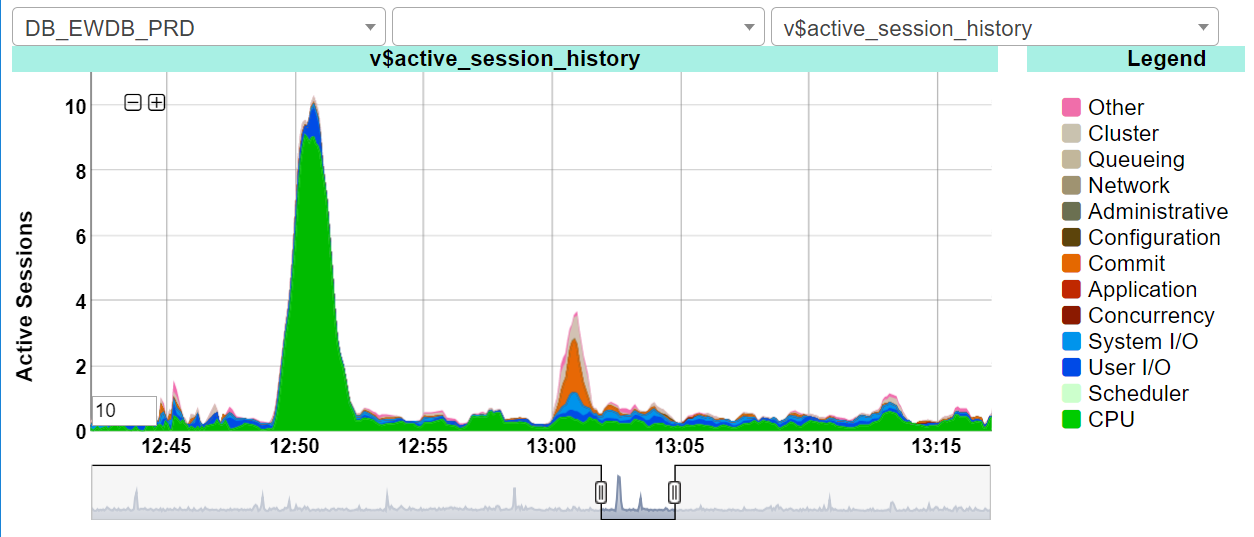
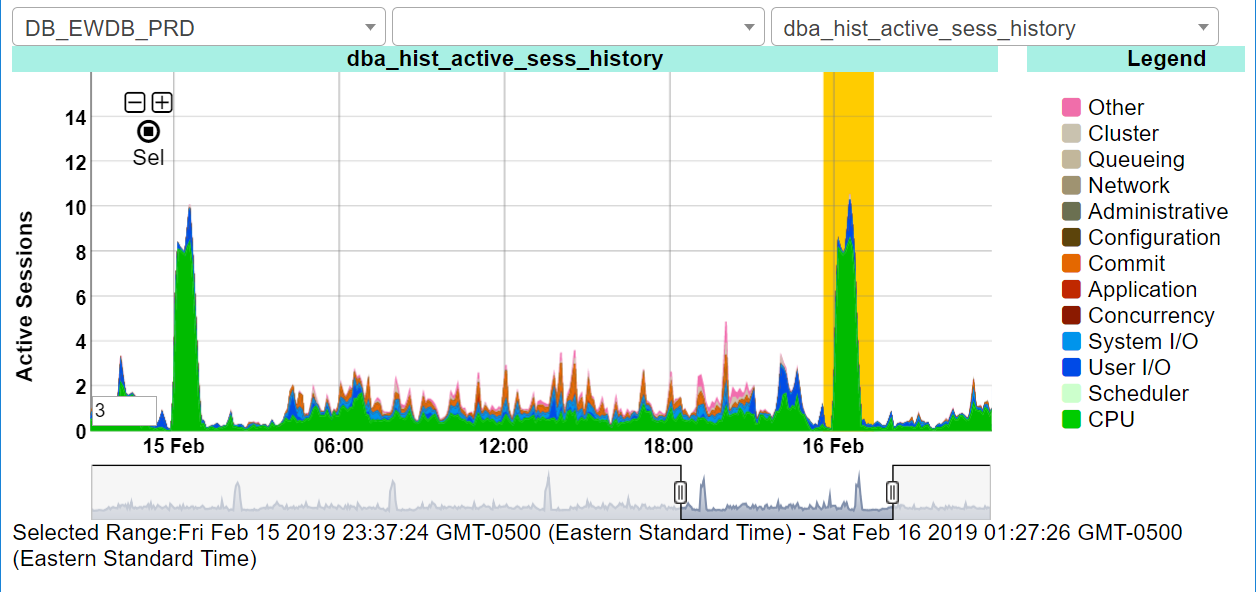
added interactive date range selection

diff --git a/top_activity_viewer/static/graph.js b/top_activity_viewer/static/graph.js
@@ -22,18 +22,79 @@ export function emptyGraph() {
 	gl.maxDownloadedDate=startTime.getTime()+30*24*60*60*1000;
 	gl.minDownloadedDate=gl.maxDownloadedDate;
 	
+	// define interaction model object
+	var interactionModel= {
+		'mousedown': function (event, g, context){
+				context.initializeMouseDown(event, g, context);
+				// clear any highlights
+				g.updateOptions({ underlayCallback: null });
+				// clear "selected range ..." wording
+				$("#selected_range").hide();
+				
+				if (gl.panSelectToggle=='select') {
+					Dygraph.startZoom(event, g, context);
+				}
+				else if (gl.panSelectToggle=='pan'){
+					Dygraph.startPan(event, g, context);
+				}
+				// save current range for later
+				gl.mouseDownDateWindow=gl.dg.xAxisRange();
+		},
+			
+		'mousemove': function (event, g, context){
+			if (gl.panSelectToggle=='select' && context.isZooming) {
+				Dygraph.moveZoom(event, g, context);
+			}
+			else if (gl.panSelectToggle=='pan' && context.isPanning){
+				context.is2DPan = false; // pan only along X axis
+				Dygraph.movePan(event, g, context);
+		}},
+			
+		'mouseup'  : function (event, g, context){
+			if (gl.panSelectToggle=='select' && context.isZooming ){
+				Dygraph.endZoom(event, g, context);
+				// only consider it a selection if mouseup is not too close to mousedown
+				if ((g.xAxisRange()[0]-gl.mouseDownDateWindow[0]) /
+				    (g.xAxisRange()[1]-g.xAxisRange()[0]) > 0.05 ) {
+						// effectively cancel zooming by redrawing with intial mousedown date range
+						// and highlight zoomed area
+						gl.selectedDateWindow=g.xAxisRange();
+						gl.dg.updateOptions({
+							dateWindow: gl.mouseDownDateWindow
+							,underlayCallback: function(canvas, area, g) {
+								var bottom_left = g.toDomCoords(gl.selectedDateWindow[0], -20);
+								var top_right = g.toDomCoords(gl.selectedDateWindow[1], +20);
+								var left = bottom_left[0];
+								var right = top_right[0];
+								canvas.fillStyle = "rgba(255, 204, 0, 1.0)";
+								canvas.fillRect(left, area.y, right - left, area.h);
+							}
+						});
+						// print selected date range under the chart
+						$("#selected_range").text("Selected Range:"+
+												   new Date(gl.selectedDateWindow[0]).toString()+
+												   " - "+
+												   new Date(gl.selectedDateWindow[1]).toString())
+						.show();
+					}
+			}
+			else if (gl.panSelectToggle=='pan' && context.isPanning){
+				Dygraph.endPan(event, g, context);
+			}
+		}
+	};
+
 	gl.dg = new Dygraph(
 		document.getElementById("chart_dygraph")
 		,[[startTime,0],[endTime,0]]
 		,{ylabel: 				'Active Sessions'
 		 ,labels:				['A','B']
 		 ,dateWindow: 			[startTime.getTime(), endTime.getTime()]
-		 ,showRangeSelector: 	true
+		 ,interactionModel:		interactionModel
 		 ,showRoller: 			true
 		 ,rollPeriod: 			10
 		 ,fillGraph : 			true
          ,fillAlpha:  			1.0
-         //,stepPlot:			true
          ,stackedGraph:			true
          ,stackedGraphNaNFill:	"none"
 		 ,showLabelsOnHighlight:false
@@ -42,20 +103,16 @@ export function emptyGraph() {
 		}
 	);
 
-	// add zoom elements
-	
-	
+	// separately add Range Selector so that interactionModel is not lost
+	gl.dg.updateOptions({showRangeSelector: true});
 	
 	// add custom mouseup handler to request more data
 	$("#chart_dygraph canvas, .dygraph-rangesel-fgcanvas, .dygraph-rangesel-zoomhandle")
 		.mouseup(function(e) {
-            //console.log("mouseup detected");
-			// if datasource is history
-			// and if the pan action moved chart to the edge beyond 
+            console.log("mouseup detected");
+			// if the pan action moved chart to the edge beyond 
 			// data received from datasource so far,
 			// then request more data
-			//if (gl.gDataSource=='v$active_session_history'
-			//	&&
 			if ( gl.dg.xAxisRange()[0]<gl.minDownloadedDate
 				  || 
 				  gl.dg.xAxisRange()[0]>gl.maxDownloadedDate )
@@ -64,7 +121,13 @@ export function emptyGraph() {
 			};
 		})
 		.mousedown(function(e) {
+			// save current date range on mousedown in "select" mode 
+			// in case it is start of range selection
             console.log("mousedown detected");
+			//if ( gl.panSelectToggle == 'select' ){
+			//	//gl.mouseDownDateWindow=gl.dg.xAxisRange();
+			//	gl.dg.updateOptions({ interactionModel:{} }); 
+			//}
 		});
 }
 
@@ -123,7 +186,7 @@ export function buildGraph(){
 					file: 				displayData
 					,labels: 			labelsArr
 					,colors:			colorsArr
-					,showRangeSelector: true
+					//,showRangeSelector: true
 					,valueRange:		[0, gl.gCpuCoreCount]
 				});
 			}

diff --git a/top_activity_viewer/static/style.css b/top_activity_viewer/static/style.css
@@ -77,14 +77,6 @@ html, body {
   100% { transform: rotate(360deg); }
 }
 
-/* zoom control */
-.zoom {
-  position: absolute;
-  top: 2em;
-  left: 5em;
-  z-index: 1;
-}
-
 .outer {
 	/*position:relative;*/
 	width=90%;
@@ -136,9 +128,39 @@ li.legend_scheduler:before 		{color: #CCFFCC;}
 li.legend_cpu:before 			{color: #00CC00;}
 li.legend_highlighted:before 	{color: #FFFF00;}
 
-.fa-minus-square-o:hover, .fa-plus-square-o:hover {
-    color: red;
-    cursor: pointer;
+
+/* zoom and pan/select controls */
+#controls {
+  position: absolute;
+  top: 2em;
+  left: 5em;
+  z-index: 1;
+  font-size: 1em;
 }
-
-
+#zoom {
+	display: block;
+	text-align: center;
+}
+#pan-select-toggle {
+	display: block;
+	text-align: center;
+}
+#pan-select-toggle span{
+    width: 5em;
+}
+.fa-stop-circle, .fa-stop-circle-o {
+	display: block;
+	font-size: 1.2em;
+}
+.fa-minus-square-o, .fa-plus-square-o {
+	font-size: 1.2em;
+}
+.fa-minus-square-o:hover, 
+.fa-plus-square-o:hover, 
+.fa-stop-circle:hover, 
+.fa-stop-circle-o:hover, 
+#pan-select-toggle span:hover
+{
+    color: red;
+	cursor: pointer;
+}

diff --git a/top_activity_viewer/static/javascript.js b/top_activity_viewer/static/javascript.js
@@ -23,11 +23,28 @@ jQuery(document).ready(function() {
 	$(".loader").hide();
 
 	// zoom control click handler
-	$(".zoom .fa-plus-square-o").click(function(){
+	$("#zoom .fa-plus-square-o").click(function(){
 		gl.dg.updateOptions({valueRange: [0, gl.dg.yAxisRange()[1]/2]});
 	});
-	$(".zoom .fa-minus-square-o").click(function(){
+	$("#zoom .fa-minus-square-o").click(function(){
 		gl.dg.updateOptions({valueRange: [0, gl.dg.yAxisRange()[1]*2]});
+	});
+	
+	// pan/select control click handler
+	$("#pan-select-toggle").click(function(){
+		var $icon=$(this).children(":first");
+		if ( gl.panSelectToggle=='select' ) {
+			 $icon.removeClass("fa-stop-circle-o")
+				  .toggleClass("fa-stop-circle");
+			 $(this).children("span").text("Pan");
+			 gl.panSelectToggle='pan';
+		}
+		else if ( gl.panSelectToggle='pan' ) {
+			 $icon.removeClass("fa-stop-circle")
+			      .toggleClass("fa-stop-circle-o");
+			 $(this).children("span").text("Sel");
+			 gl.panSelectToggle='select';
+		};
 	});
 	
 });

diff --git a/top_activity_viewer/static/main.html b/top_activity_viewer/static/main.html
@@ -56,15 +56,23 @@
 				<h2>v$active_session_history</h2>
 				<div id="chart_dygraph" style="width:30em; min-width:200px;"></div>
 				<div class="loader"></div>
-				<div class="zoom">
-					<i class="fa fa-minus-square-o" aria-hidden="true"></i>
-					<i class="fa fa-plus-square-o"  aria-hidden="true"></i>
+				<div id="controls">
+					<div id="zoom">
+						<i class="fa fa-minus-square-o" aria-hidden="true"></i>
+						<i class="fa fa-plus-square-o"  aria-hidden="true"></i>
+					</div>
+					<div id="pan-select-toggle">
+						<i class="fa fa-stop-circle"></i>
+						<span>Pan</span>
+					</div>
 				</div>
 			</div>
 			<div id="legend">
 				<h2>Legend</h2>
 				<ul></ul>
 			</div>
+		</div>
+		<div id="selected_range" disabled>
 		</div>
 		<script type="module" src="/static/javascript.js"></script>
 	</body>

diff --git a/top_activity_viewer/static/globals.js b/top_activity_viewer/static/globals.js
@@ -12,6 +12,9 @@ let gl={
 	,'minDownloadedDate'    : undefined
 	,'api_root'				: ''
 	//,'api_root'			: 'https://u6pic3x198.execute-api.us-east-1.amazonaws.com/dev'
+	,'panSelectToggle'		: 'pan'
+	,'mouseDownDateWindow'	: []
+	,'selectedDateWindow'	: []
 };
 
 let waitClassObj={
